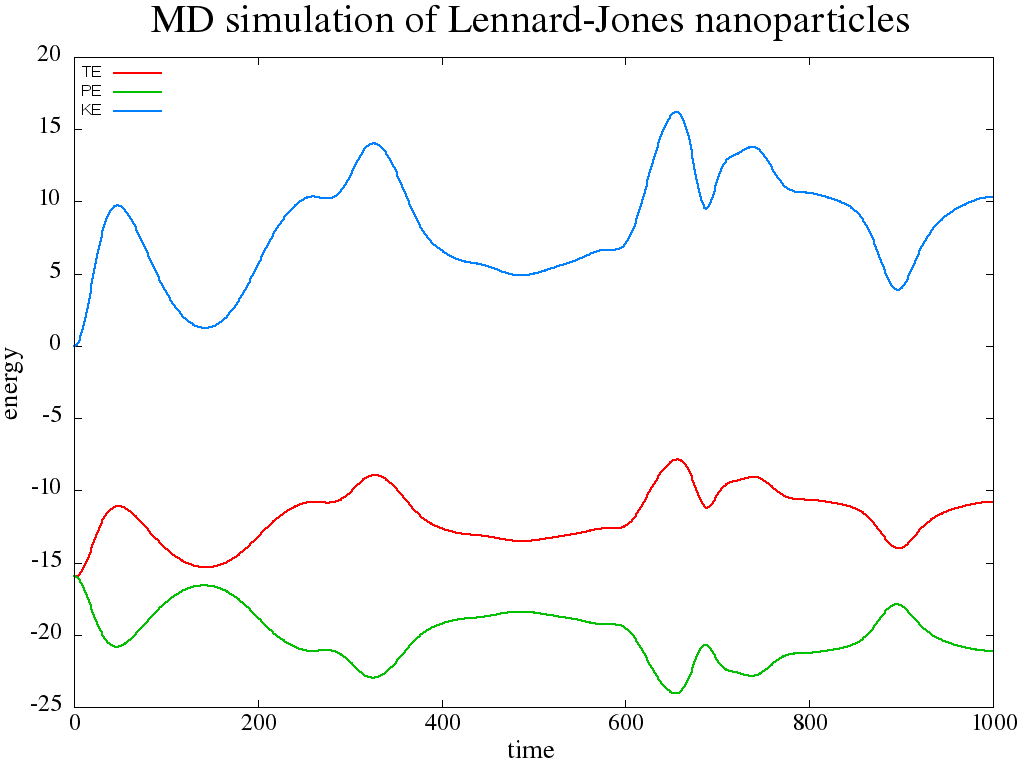
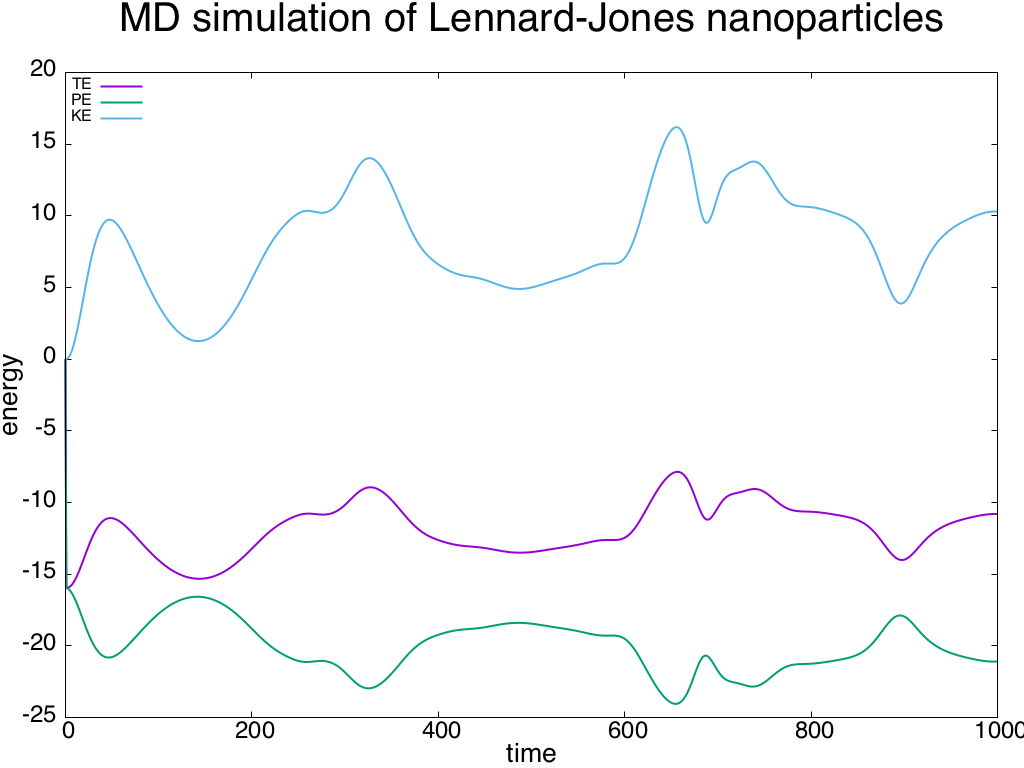
Improve code with initialization. Seperate methods for energy and force calculations

diff --git a/HM2/P3/main.cpp b/HM2/P3/main.cpp
@@ -32,6 +32,7 @@
 void init(int Natoms, const char* filename){
 
   // Memory Management
+  m     = new double[Natoms];
   r     = new double*[Natoms];
   v     = new double*[Natoms];
   f     = new double*[Natoms];
@@ -51,8 +52,9 @@ void init(int Natoms, const char* filename){
   // initialize the positions
   read_xyz(Natoms, filename);
 
-  // intialize the velocities to zero
+  // intialize the mass, velocities, forces
   for(int i=0; i<Natoms; i++){
+    m[i] = 1.0;
     v[i][0] = 0.0; v[i][1] = 0.0; v[i][2] = 0.0;
     f[i][0] = 0.0; f[i][1] = 0.0; f[i][2] = 0.0;
   }
@@ -62,7 +64,7 @@ void init(int Natoms, const char* filename){
 
 void vv_scheme()
 {
-  double tfact = dt/(2*m);
+  double tfact;
   
   // TODO : Perform openMP.
   for(int i=0; i<Natoms; i++){
@@ -80,6 +82,7 @@ void vv_scheme()
   }
 
   for(int i=0; i<Natoms; i++){
+    tfact = dt/(2.0*m[i]);
     // Step 1. v(t+0.5dt)
     v[i][0] = v_old[i][0] + f_old[i][0]*tfact;
     v[i][1] = v_old[i][1] + f_old[i][1]*tfact;
@@ -95,7 +98,8 @@ void vv_scheme()
     r[i][2] = r_old[i][2] + v_old[i][2]*dt;
   }
 
-  calc_energy_force();
+  calc_pairenergy();
+  calc_force();
 
   for(int i=0; i<Natoms; i++){
     // Step 3. v(t+dt)
@@ -107,10 +111,33 @@ void vv_scheme()
 
 //-----------------------------------------------------------------//
 
-void calc_energy_force()
+void calc_pairenergy()
 {
-  // Before calculating energy and forces again make sure to rezero them
+  // Before calculating energy, make sure to rezero them
   U = 0.0;
+  dx=0.0; dy=0.0; dz=0.0;
+  r2 = 0.0; r6=0.0; Ir6=0.0;
+  
+  for(int i=0; i<Natoms; i++){
+    for(int j=i+1; j<Natoms; j++){
+      dx = r[i][0] - r[j][0];
+      dy = r[i][1] - r[j][1];
+      dz = r[i][2] - r[j][2];
+      r2 = (dx*dx) + (dy*dy) + (dz*dz);
+      r6 = r2*r2*r2;
+      Ir6 = 1/r6;
+
+      // Pair Energy
+      U += 4*(Ir6*Ir6 - Ir6);
+    }
+  }
+}
+
+//-----------------------------------------------------------------//
+
+void calc_force()
+{
+  // Before calculating energy, make sure to rezero them
   dx=0.0; dy=0.0; dz=0.0;
   r2 = 0.0; r6=0.0; Ir6=0.0;
   F = 0.0;
@@ -129,9 +156,6 @@ void calc_energy_force()
       r2 = (dx*dx) + (dy*dy) + (dz*dz);
       r6 = r2*r2*r2;
       Ir6 = 1/r6;
-
-      // Pair Energy
-      U += 4*(Ir6*Ir6 - Ir6);
 
       // LJ Force
       // This procedure of manipulating r avoids use of sqrt()
@@ -161,9 +185,9 @@ void calc_momentum()
 {
   // Assumption : Mass of atoms = 1.0
   for(int i=0; i<Natoms; i++){
-    px += v[i][0];
-    py += v[i][1];
-    pz += v[i][2];
+    px += m[i]*v[i][0];
+    py += m[i]*v[i][1];
+    pz += m[i]*v[i][2];
   }
 }
 
@@ -191,7 +215,7 @@ int main(int argc, char** argv)
     elapsed_time = dt*double(k);
 
     // Calculate pair-energy and forces
-    if(k==0) calc_energy_force();
+    if(k==0) calc_force();
     calc_kenergy();
     TE=U+KE;
     std::cout << std::setw(8) << k << std::setw(15) << elapsed_time << std::setw(15) << U << std::setw(15) << KE << std::setw(15)

diff --git a/HM2/P3/driver.h b/HM2/P3/driver.h
@@ -10,15 +10,16 @@ void read_xyz(int natoms, const char* filename);
 
 
 void init();
-void calc_energy_force();
+void calc_pairenergy();
+void calc_force();
 void calc_kenergy();
 void vv_scheme();
 
 double elapsed_time=0.0;
 double dt=0.002;
 double t;
-double m=1;
 int Natoms;
+double *m=NULL;
 double **r=NULL, **v=NULL, **f=NULL;
 double **r_old=NULL, **v_old=NULL, **f_old=NULL;
 
